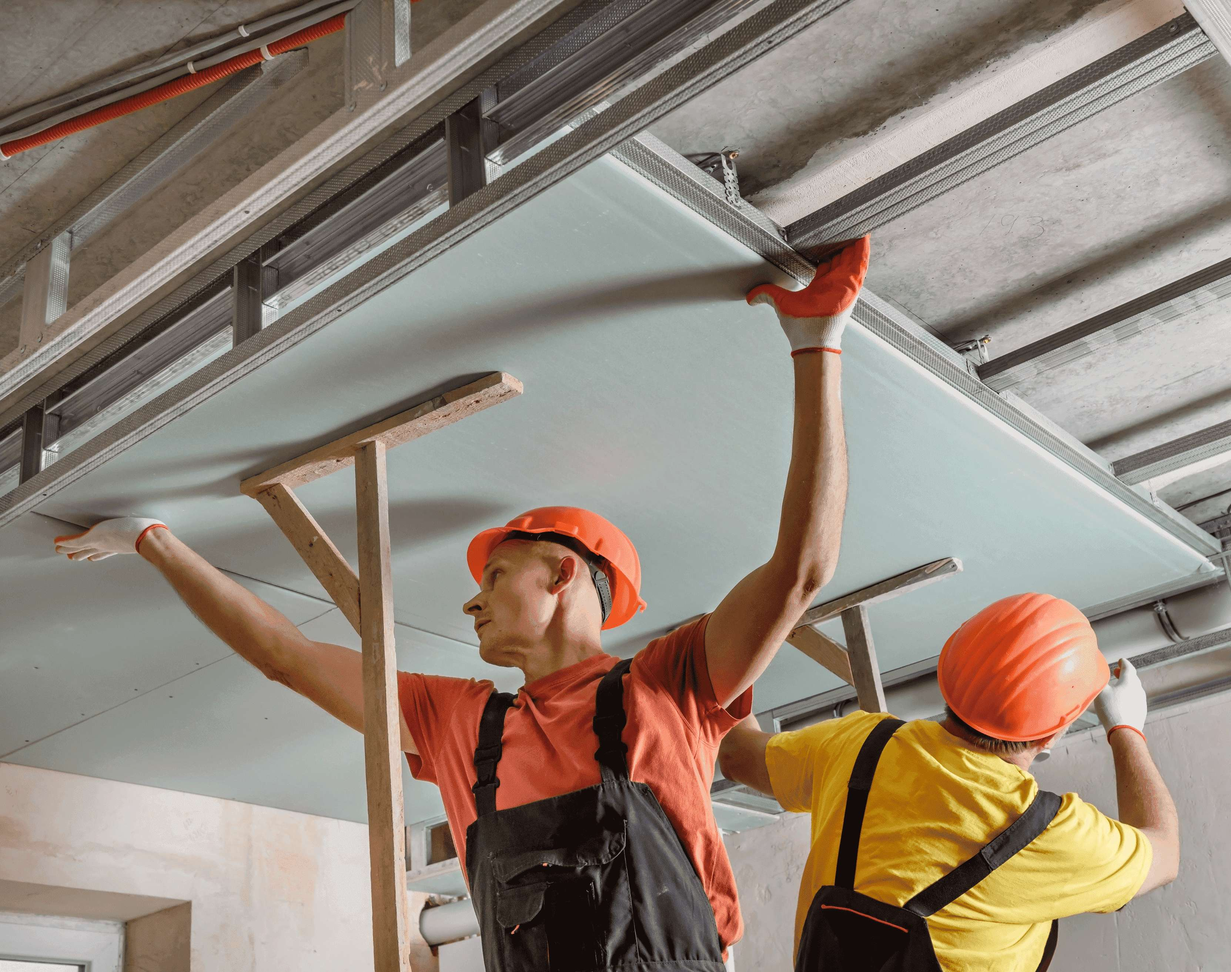
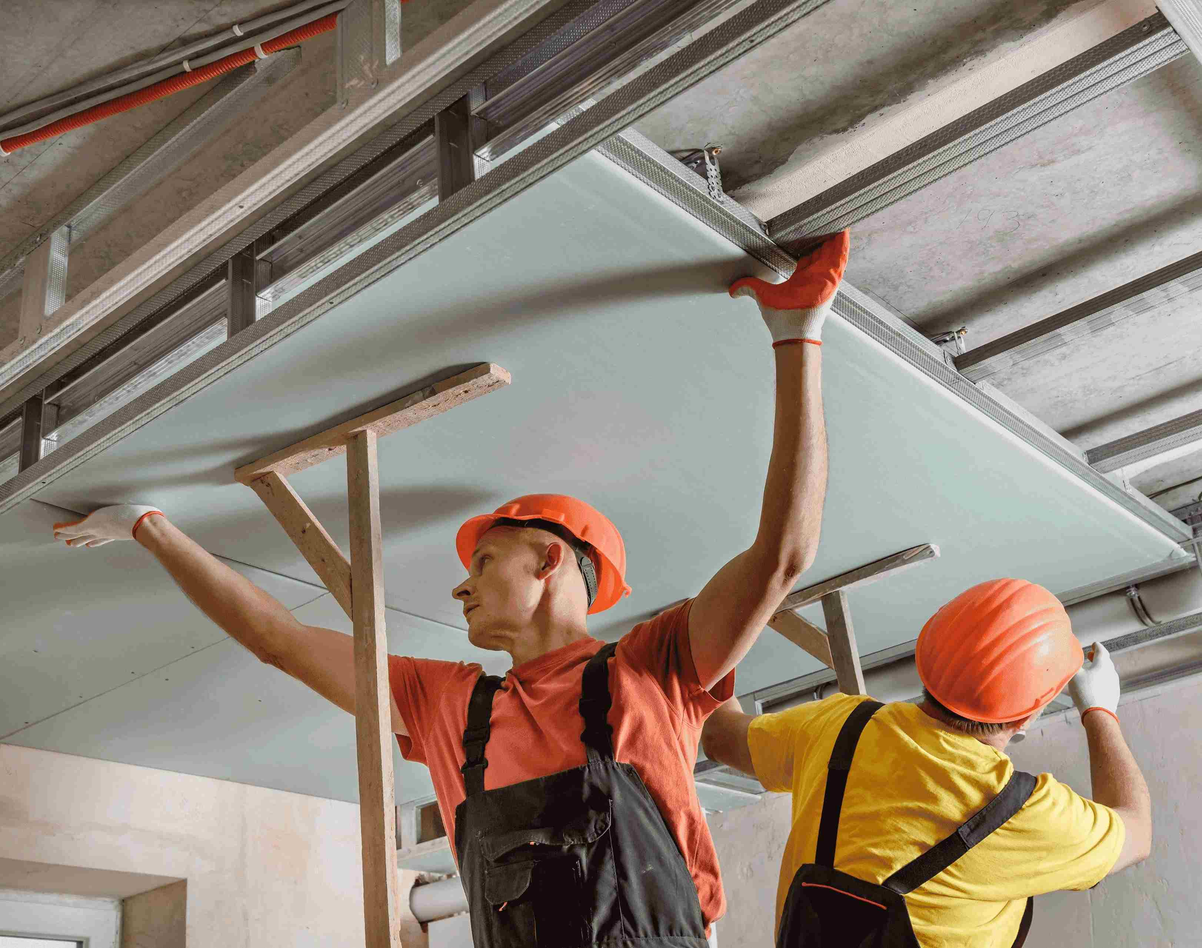
image comp

Changed region(s): [[0.6847, 0.3124, 0.7159, 0.3436], [0.5914, 0.2187, 0.6225, 0.2499]]

diff --git a/service.html b/service.html
@@ -267,7 +267,7 @@
             <div class="nk-box bg-dark-1 text-center">
                 <div class="nk-gap-5"></div>
                 <div class="bg-image bg-image-parallax">
-                    <img src="assets/images/Service_Background_2_11zon.jpg" alt="Kontakt" class="jarallax-img">
+                    <img src="assets/images/Service_Background_3_11zon.jpg" alt="Kontakt" class="jarallax-img">
                     <div class="bg-image-overlay" style="background-color: rgba(0, 0, 0, 0.6);"></div>
                 </div>
                 <div class="container">
